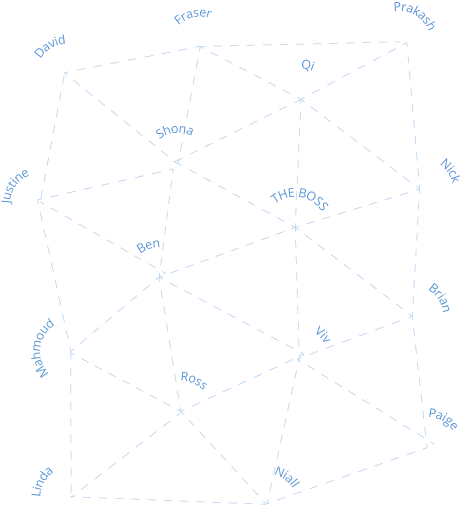
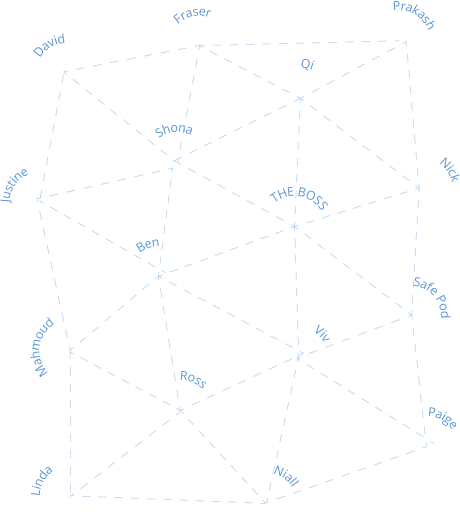
switch out brian for pod team member
Former-commit-id: 8fde50e754f3482d34aaa79c1ba425db60264981

diff --git a/js/team.js b/js/team.js
@@ -7,7 +7,7 @@ var benBio = "After five years of research in theoretical physics at Ghent Unive
 var mahmoudBio = "Mahmoud received a BSc in Computer Hardware Engineering and an MSc in Computer Systems Architecture whilst in Iran, he then came to the UK to obtain his PhD in Computer Science from The University of Glasgow. Before starting at MaidSafe he spent over 3 years working in the software industry, followed by another 3 years working as a test engineer in hardware manufacturing. His interests include Peer-to-Peer networking, analytical modelling, interconnection networks and software tools for manycore acceleration.";
 var rossBio = "Ross has a degree in Behavioural Sciences and a Postgraduate Diploma in Information Technology. He has over 11 years IT experience, 9 spent as part of the Oracle team within Motorola as an Apps DBA. He loves music, photography, being in the middle of nowhere and his most recent obsession is windsurfing, where he is currently trying to spend more time on top of the water and less under it.";
 var vivBio = "Viv qualified with a BEng(Hons) in Aerospace Engineering and Astronautics at Kingston University. He previously spent time in IBM as a Server Specialist and currently heads up the User Experience team at MaidSafe dealing with WPF, Cocoa OSX and Qt UI Systems.";
-var brianBio = "";
+var podBio = "SAFE Pods are hubs of innovation that focus on building and expanding the Safe network infrastructure and ecosystem. <a href='/safe-pods'>Learn more</a> about how MaidSafe is decentralizing network and application development.";
 var niallBio = "Niall holds graduate and post-graduate qualifications from a number of Universities in subjects including Education, Management, Economics, Pure Maths, Complexity, Information Systems and of course Software. He has contributed more than 60k lines of code to multiple open source projects since the early 1990s, and is currently also part of the Boost C++ Libraries development and administrative teams. When not working, Niall's favourite thing is anything involving his wife and daughter.";
 var shonaBio = "Shona has an HND in Graphic Design and is part of the User Experience team. She previously spent 3 years working for a creative agency and is now in her second year at MaidSafe. Her favourite things include family movie nights, aerial silks, Instagram, doing handstands, chewing fruit gums and hosting tea parties.";
 var justineBio = "Justine has over 20 years experience in the catering and leisure sector and during that time she has run her own business and obtained qualifications in customer relations. Her favourite pastimes are shopping and music (including camping at T in the Park). Justine also undertakes the role as sports mum - just as long as shops are nearby and can still do lunch!";
@@ -26,7 +26,7 @@ $(document).ready(function () {
 	$("#mahmoud").click(function(){displayBio(this, "Mahmoud Moadeli", mahmoudBio, null, null);});
 	$("#ross").click(function(){displayBio(this, "Ross Muir", rossBio, "RosscoMuir", null);});
 	$("#viv").click(function(){displayBio(this, "Viv Rajkumar", vivBio, null, null);});
-	$("#brian").click(function(){displayBio(this, "Brian", brianBio, null, null);});
+	$("#pod").click(function(){displayBio(this, "Safe Pod", podBio, null, null);});
 	$("#niall").click(function(){displayBio(this, "Niall Douglas", niallBio, null, null);});
 
 	$("#shona").click(function(){displayBio(this, "Shona Oldham", shonaBio, "shonalot", null);});

diff --git a/team.html b/team.html
@@ -217,7 +217,7 @@
               <div class="team-icon dev-icon" id="mahmoud"></div>
               <div class="team-icon dev-icon" id="ross"></div>
               <div class="team-icon dev-icon" id="viv"></div>
-              <div class="team-icon dev-icon" id="brian"></div>
+              <div class="team-icon dev-icon" id="pod"></div>
               <div class="team-icon dev-icon" id="niall"></div>
 
               <div class="team-icon design-icon" id="shona"></div>
@@ -354,8 +354,11 @@
               <div class="team-icon dev-icon icon-active"></div>
               <h2>Benjamin Bollen</h2>
               <p>After five years of research in theoretical physics at Ghent University, Ben moved from Belgium to Scotland to join MaidSafe.  With a specialization in emergent systems he could not resist to help build an autonomous, decentralized network of computers.  Driven by a passion to make complex systems understandable he now supports Quality Assurance of the code base. </p>
-              <a href="https://twitter.com/ioptio" target="_blank" class="twitter-follow-button" data-show-count="false">Follow @ioptio</a>
-              <script>!function(d,s,id){var js,fjs=d.getElementsByTagName(s)[0],p=/^http:/.test(d.location)?'http':'https';if(!d.getElementById(id)){js=d.createElement(s);js.id=id;js.src=p+'://platform.twitter.com/widgets.js';fjs.parentNode.insertBefore(js,fjs);}}(document, 'script', 'twitter-wjs');</script>
+            </div>
+            <div id="pod-bio">
+              <div class="team-icon dev-icon icon-active"></div>
+              <h2>Safe Pod</h2>
+              <p>SAFE Pods are hubs of innovation that focus on building and expanding the Safe network infrastructure and ecosystem. <a href='/safe-pods'>Learn more</a> about how MaidSafe is decentralizing network and application development.</p>
             </div>
           </div>
         </div>          

diff --git a/src/team.html b/src/team.html
@@ -55,7 +55,7 @@
               <div class="team-icon dev-icon" id="mahmoud"></div>
               <div class="team-icon dev-icon" id="ross"></div>
               <div class="team-icon dev-icon" id="viv"></div>
-              <div class="team-icon dev-icon" id="brian"></div>
+              <div class="team-icon dev-icon" id="pod"></div>
               <div class="team-icon dev-icon" id="niall"></div>
 
               <div class="team-icon design-icon" id="shona"></div>
@@ -192,8 +192,11 @@
               <div class="team-icon dev-icon icon-active"></div>
               <h2>Benjamin Bollen</h2>
               <p>After five years of research in theoretical physics at Ghent University, Ben moved from Belgium to Scotland to join MaidSafe.  With a specialization in emergent systems he could not resist to help build an autonomous, decentralized network of computers.  Driven by a passion to make complex systems understandable he now supports Quality Assurance of the code base. </p>
-              <a href="https://twitter.com/ioptio" target="_blank" class="twitter-follow-button" data-show-count="false">Follow @ioptio</a>
-              <script>!function(d,s,id){var js,fjs=d.getElementsByTagName(s)[0],p=/^http:/.test(d.location)?'http':'https';if(!d.getElementById(id)){js=d.createElement(s);js.id=id;js.src=p+'://platform.twitter.com/widgets.js';fjs.parentNode.insertBefore(js,fjs);}}(document, 'script', 'twitter-wjs');</script>
+            </div>
+            <div id="pod-bio">
+              <div class="team-icon dev-icon icon-active"></div>
+              <h2>Safe Pod</h2>
+              <p>SAFE Pods are hubs of innovation that focus on building and expanding the Safe network infrastructure and ecosystem. <a href='/safe-pods'>Learn more</a> about how MaidSafe is decentralizing network and application development.</p>
             </div>
           </div>
         </div>          

diff --git a/css/styles.css b/css/styles.css
@@ -2027,7 +2027,7 @@ a.wordpress-button:hover { background-position:bottom left;}
 #mahmoud { top: 325px; left: 49px; }
 #ross { top: 385px; left: 150px; }
 #viv { top: 330px; left: 269px; }
-#brian { top: 290px; left: 383px; }
+#pod { top: 290px; left: 383px; }
 #niall { top: 478px; left: 240px; }
 
 #shona { top:138px; left:150px; }
@@ -3236,7 +3236,7 @@ a.light-button-full {
 #mahmoud { top: 240px; left: 34px; }
 #ross { top: 285px; left: 113px; }
 #viv { top: 246px; left: 200px; }
-#brian { top: 215px; left: 285px; }
+#pod { top: 215px; left: 285px; }
 #niall { top: 353px; left: 175px; }
 
 #shona { top:101px; left:112px; }
@@ -4014,7 +4014,7 @@ ul.pdf-group li:before {
 #mahmoud { top: 240px; left: 34px; }
 #ross { top: 285px; left: 113px; }
 #viv { top: 246px; left: 200px; }
-#brian { top: 215px; left: 285px; }
+#pod { top: 215px; left: 285px; }
 #niall { top: 353px; left: 175px; }
 
 #shona { top:101px; left:112px; }
